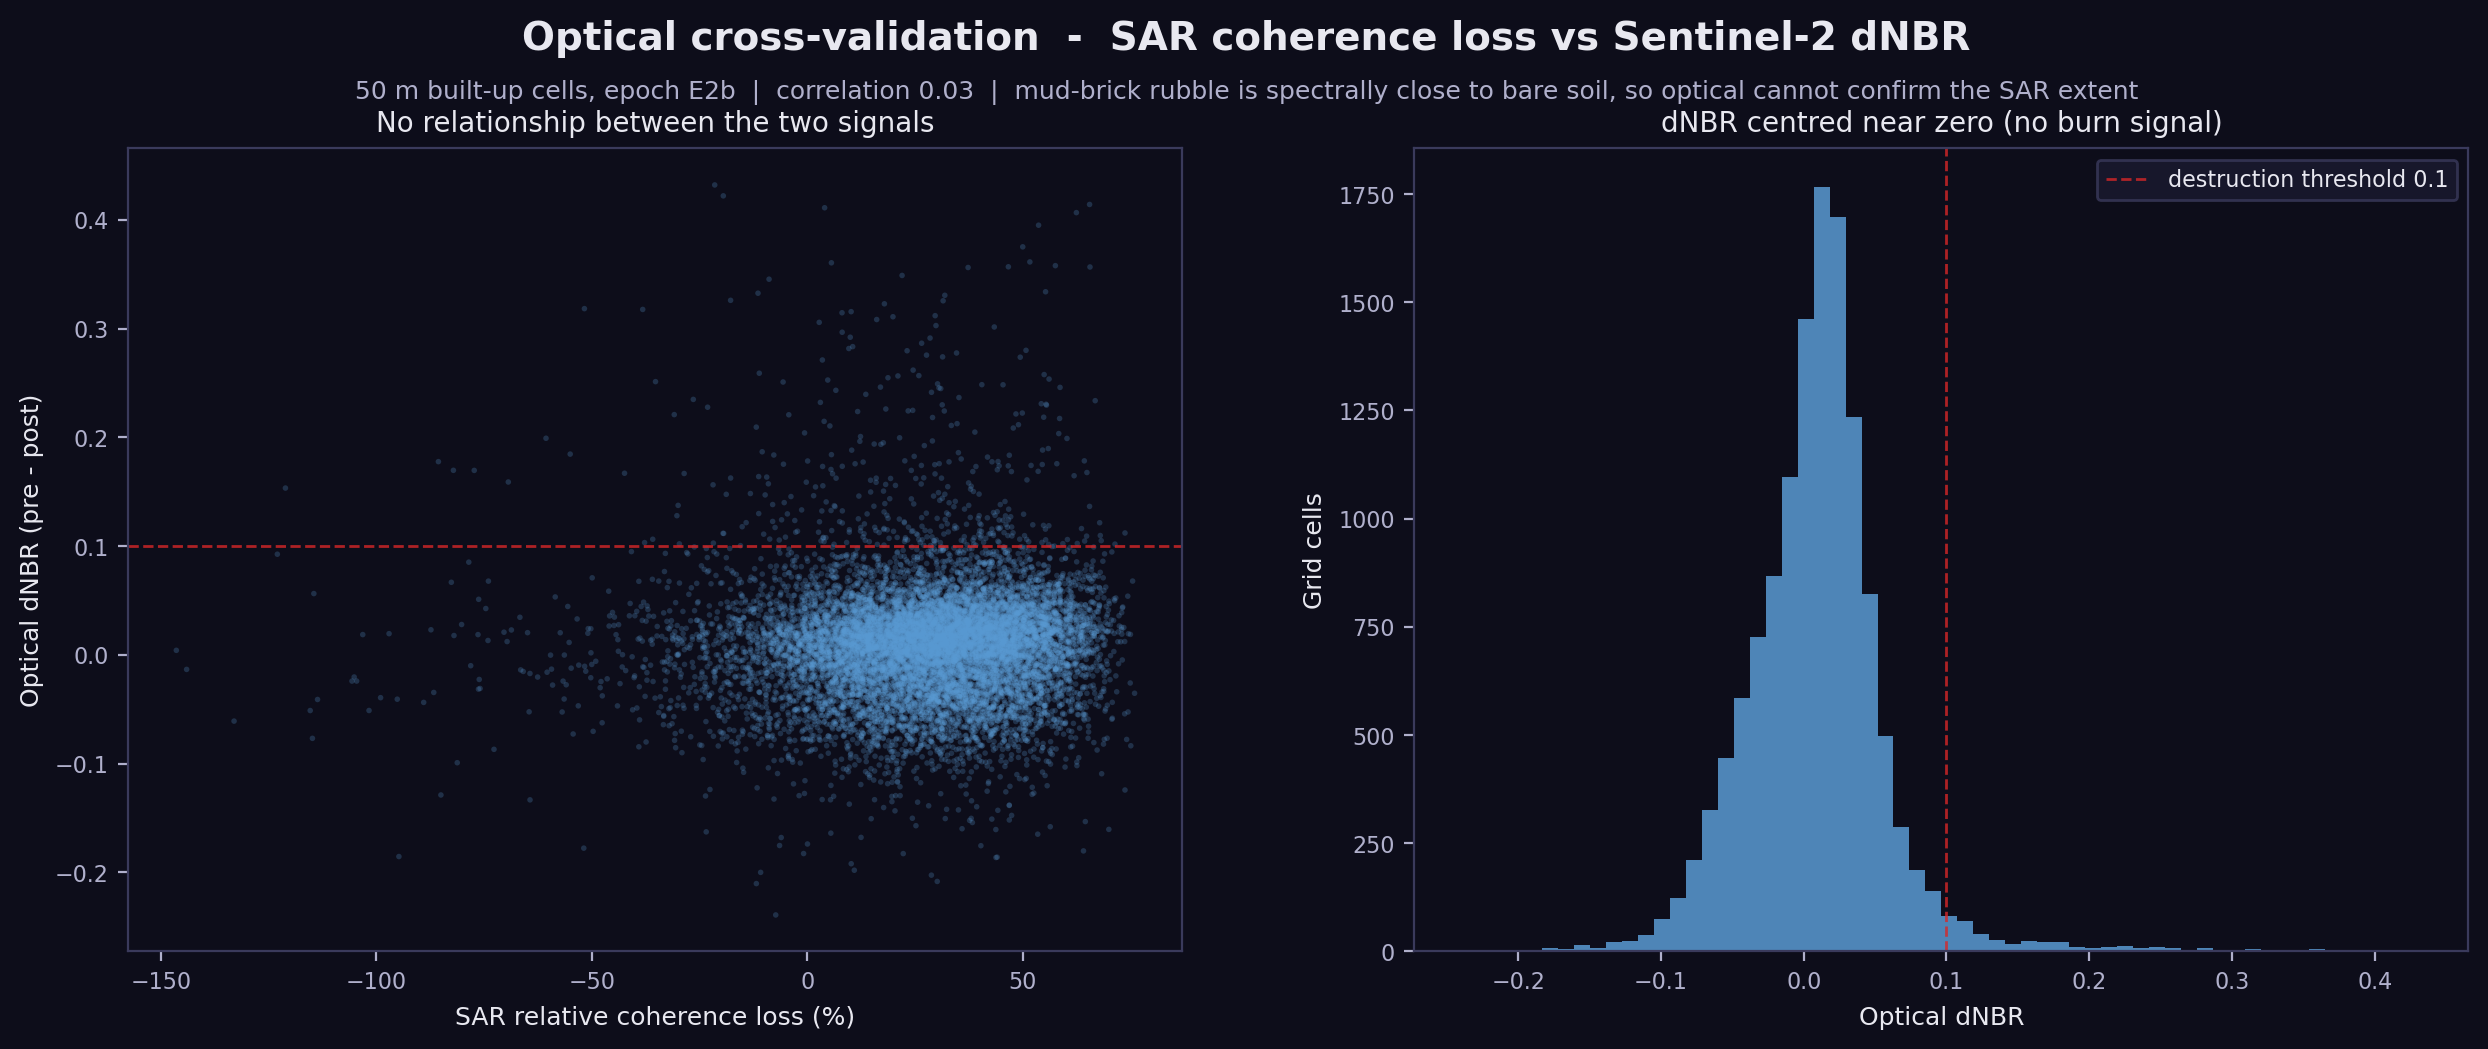
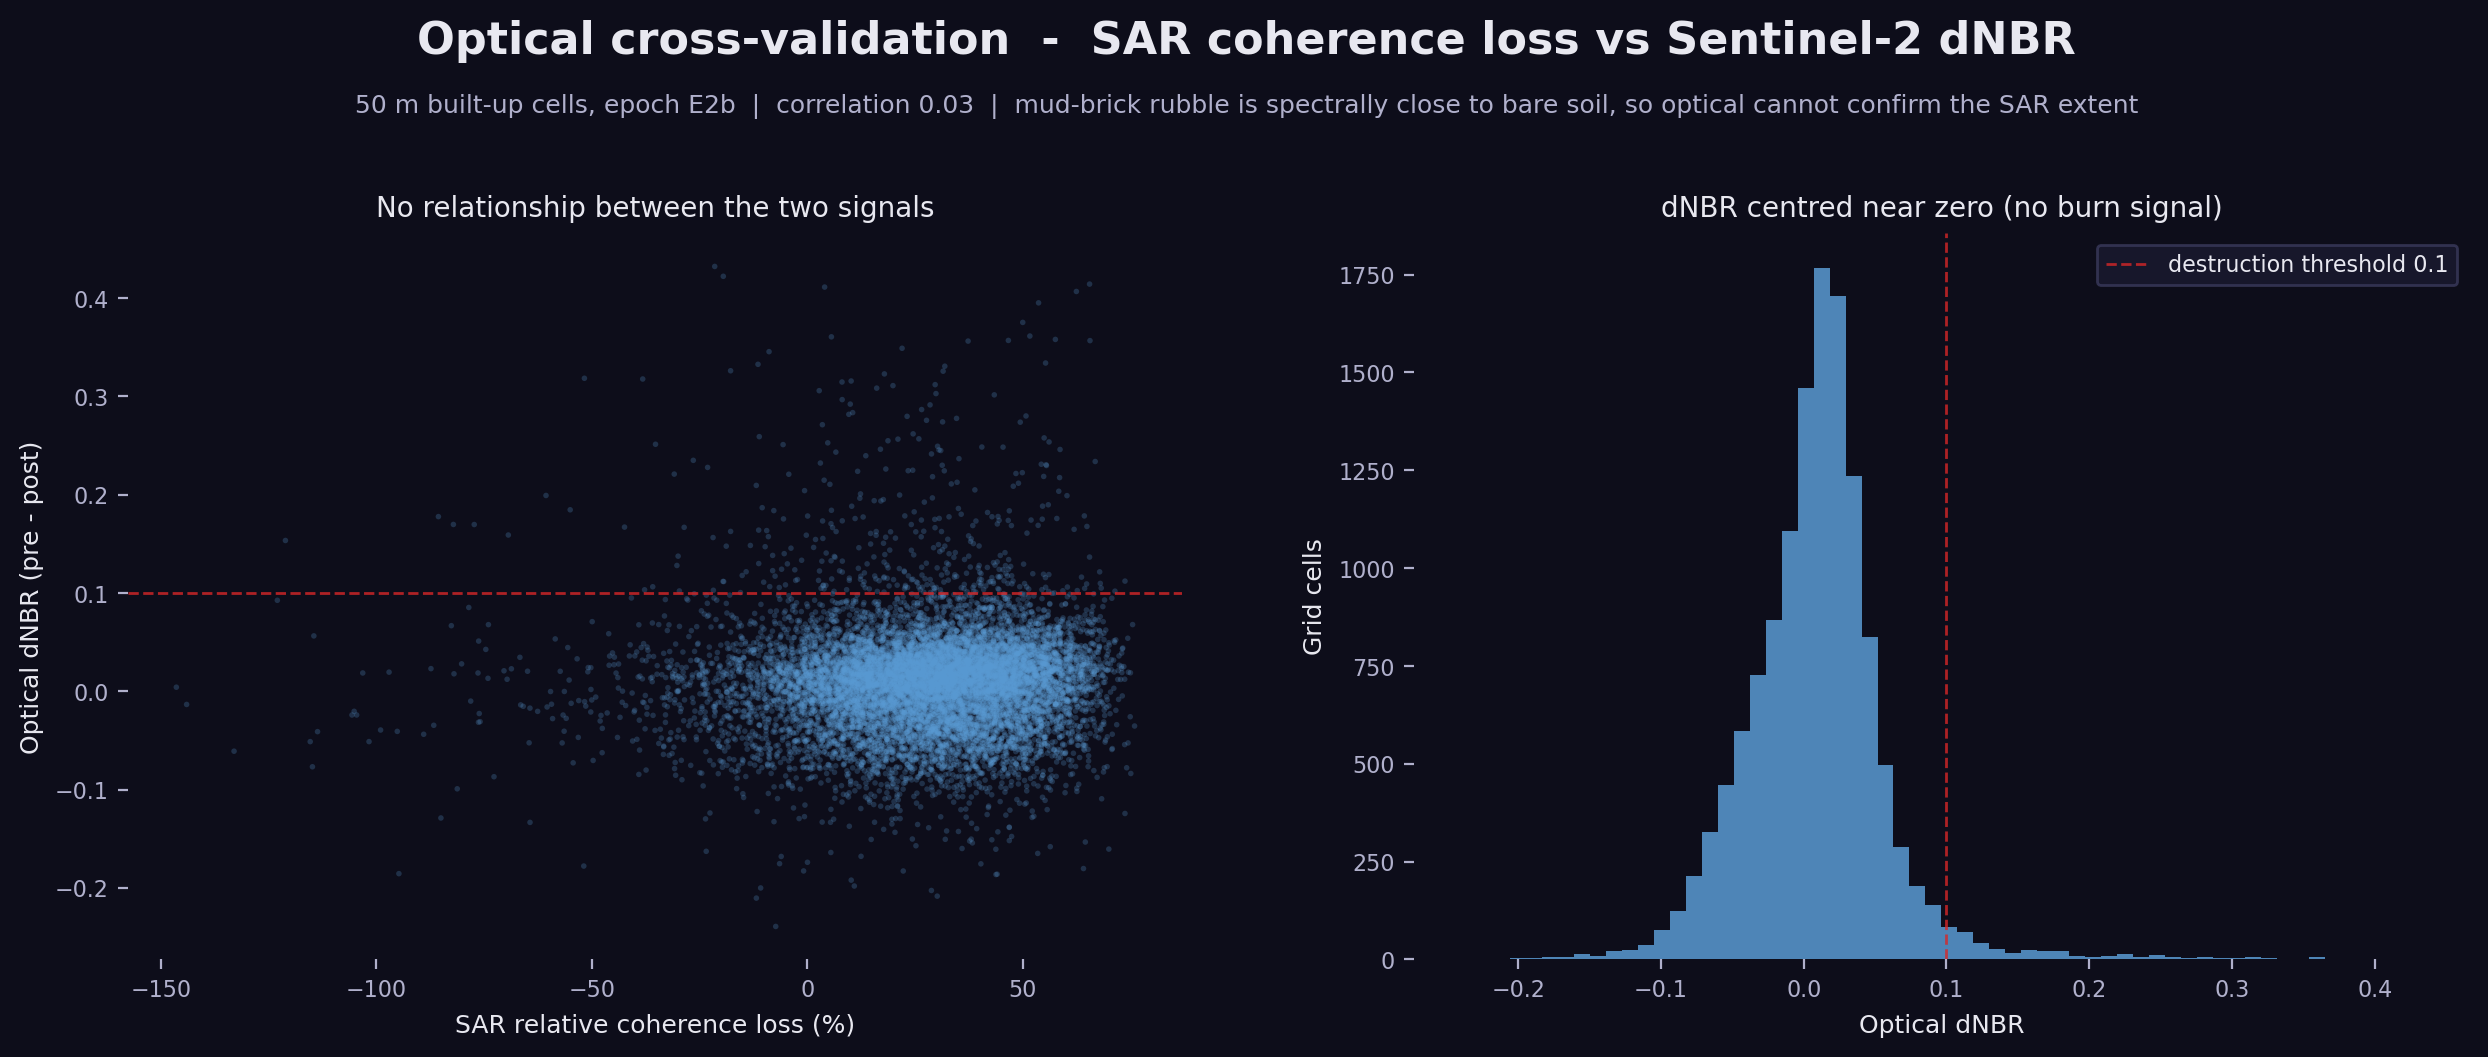
Refine figure styling: dark-blue VV, cleaner panels, consistent spacing
- Recolour VV channel to dark blue (#2d4ea8) to match the VH magenta
- Remove diagram box outlines (spines) in dual-pol and optical figures
- Align top spacing of headings, subtitles and panel titles across figures
- Drop legend frame and panel-grey stat-bar background in damage overview
- Remove deleted damage_confidence.png embed from README

diff --git a/validate_optical.py b/validate_optical.py
@@ -313,11 +313,12 @@ def make_figure(grid_gdf: gpd.GeoDataFrame, result: dict) -> None:
     fig, (ax_scatter, ax_hist) = plt.subplots(
         1, 2, figsize=(13, 5.5), facecolor=config.COLOR_BG
     )
-    fig.subplots_adjust(left=0.07, right=0.97, top=0.86, bottom=0.13, wspace=0.22)
-    fig.text(0.5, 0.95,
+    fig.subplots_adjust(left=0.07, right=0.97, top=0.79, bottom=0.13, wspace=0.22)
+    fig.text(0.5, 0.965,
              "Optical cross-validation  -  SAR coherence loss vs Sentinel-2 dNBR",
-             ha="center", color=config.COLOR_FG, fontsize=14, fontweight="bold")
-    fig.text(0.5, 0.905,
+             ha="center", va="center", color=config.COLOR_FG,
+             fontsize=16, fontweight="bold")
+    fig.text(0.5, 0.90,
              f"50 m built-up cells, epoch {epoch}  |  correlation "
              f"{result['correlation']:.2f}  |  mud-brick rubble is spectrally "
              "close to bare soil, so optical cannot confirm the SAR extent",
@@ -327,7 +328,7 @@ def make_figure(grid_gdf: gpd.GeoDataFrame, result: dict) -> None:
         ax.set_facecolor(config.COLOR_BG)
         ax.tick_params(colors=config.COLOR_SUB, labelsize=8)
         for spine in ax.spines.values():
-            spine.set_edgecolor(config.COLOR_LINE)
+            spine.set_visible(False)
 
     ax_scatter.scatter(relative_loss[finite] * 100, dnbr[finite],
                        s=4, alpha=0.25, color="#5a9bd4", edgecolors="none")

diff --git a/compare_polarisations.py b/compare_polarisations.py
@@ -100,7 +100,7 @@ def style_axes(ax) -> None:
     ax.set_facecolor(config.COLOR_BG)
     ax.tick_params(colors=config.COLOR_FG)
     for spine in ax.spines.values():
-        spine.set_color(config.COLOR_LINE)
+        spine.set_visible(False)
 
 
 def print_summary(built_up_gdf, retention: dict) -> None:
@@ -135,13 +135,14 @@ def main() -> None:
     print_summary(built_up_gdf, retention)
 
     fig, axes = plt.subplots(1, 2, figsize=(14, 6), facecolor=config.COLOR_BG)
-    fig.subplots_adjust(left=0.07, right=0.97, top=0.90, bottom=0.12, wspace=0.22)
+    fig.subplots_adjust(left=0.07, right=0.97, top=0.84, bottom=0.12, wspace=0.22)
     for ax in axes:
         style_axes(ax)
     plot_scatter(axes[0], built_up_gdf)
     plot_retention(axes[1], retention)
-    fig.suptitle("Dual-polarisation diagnostic  -  El Geneina 2023",
-                 color=config.COLOR_FG, fontsize=15, fontweight="bold")
+    fig.text(0.5, 0.965, "Dual-polarisation diagnostic  -  El Geneina 2023",
+             ha="center", va="center", color=config.COLOR_FG,
+             fontsize=16, fontweight="bold")
 
     output_path = config.POLARISATION_DIAGNOSTIC_FIGURE
     fig.savefig(output_path, dpi=200, bbox_inches="tight", facecolor=config.COLOR_BG)

diff --git a/uncertainty.py b/uncertainty.py
@@ -81,8 +81,9 @@ def main() -> None:
     norm = Normalize(vmin=0.0, vmax=Z_MAX)
     fig, axes = plt.subplots(1, 3, figsize=(21, 9), facecolor=config.COLOR_BG)
     fig.subplots_adjust(left=0.01, right=0.99, top=0.93, bottom=0.12, wspace=0.03)
-    fig.suptitle("Damage confidence (signal-to-noise)  -  El Geneina 2023",
-                 color=config.COLOR_FG, fontsize=16, fontweight="bold")
+    fig.text(0.5, 0.965, "Damage confidence (signal-to-noise)  -  El Geneina 2023",
+             ha="center", va="center", color=config.COLOR_FG,
+             fontsize=16, fontweight="bold")
     for ax, epoch in zip(axes, config.DAMAGE_EPOCHS):
         plot_panel(ax, grid_gdf, reference, epoch, norm)
 

diff --git a/viz_damage_overview.py b/viz_damage_overview.py
@@ -101,7 +101,7 @@ def _add_stat_bar(fig, ax, affected_pct):
     y = position.y0 - 0.005 - bar_height
 
     fig.add_artist(plt.Rectangle((position.x0, y), position.width, bar_height,
-                                 transform=fig.transFigure, facecolor=config.COLOR_PANEL,
+                                 transform=fig.transFigure, facecolor=config.COLOR_BG,
                                  clip_on=False, zorder=5))
     fig.add_artist(plt.Rectangle((position.x0, y), position.width * affected_pct / 100,
                                  bar_height, transform=fig.transFigure,
@@ -124,8 +124,7 @@ def _add_legend(fig):
     legend = fig.legend(handles=handles,
                         title="Damage class  (relative coherence loss)",
                         title_fontsize=9, fontsize=9, loc="lower center", ncol=4,
-                        frameon=True, framealpha=0.9, facecolor=config.COLOR_PANEL,
-                        edgecolor=config.COLOR_LINE, labelcolor=config.COLOR_FG,
+                        frameon=False, labelcolor=config.COLOR_FG,
                         bbox_to_anchor=(0.5, 0.02))
     legend.get_title().set_color(config.COLOR_FG)
 

diff --git a/config.py b/config.py
@@ -421,7 +421,7 @@ COLOR_LINE = "#3a3a5c"     # axes spines and dividers
 
 # Polarisation channels in the dual-pol diagnostic figure. Teal and lavender
 # both read on the dark backdrop and stay clear of the warm damage ramp.
-COLOR_VV = "#4ecdc4"       # primary co-pol channel (teal)
+COLOR_VV = "#2d4ea8"       # primary co-pol channel (dark blue, matched to magenta)
 COLOR_VH = "#b04a9e"       # cross-pol channel (magenta-violet)
 
 # Damage class styling: 0 = none, 1 = light, 2 = moderate, 3 = severe.

diff --git a/README.md b/README.md
@@ -290,8 +290,6 @@ each call is, every built-up cell also carries a signal-to-noise z-score
 error, estimated from the within-cell spatial spread of coherence. A high z means
 the drop is large relative to the local variability.
 
-![Damage confidence](assets/damage_confidence.png)
-
 Two things follow. First, the fixed thresholds are not arbitrary: the cells the
 20 % rule marks as affected are essentially all statistically confident
 (z >= 1.6 for 100 %, z >= 2.3 for 97 to 99 %), while non-affected cells sit at